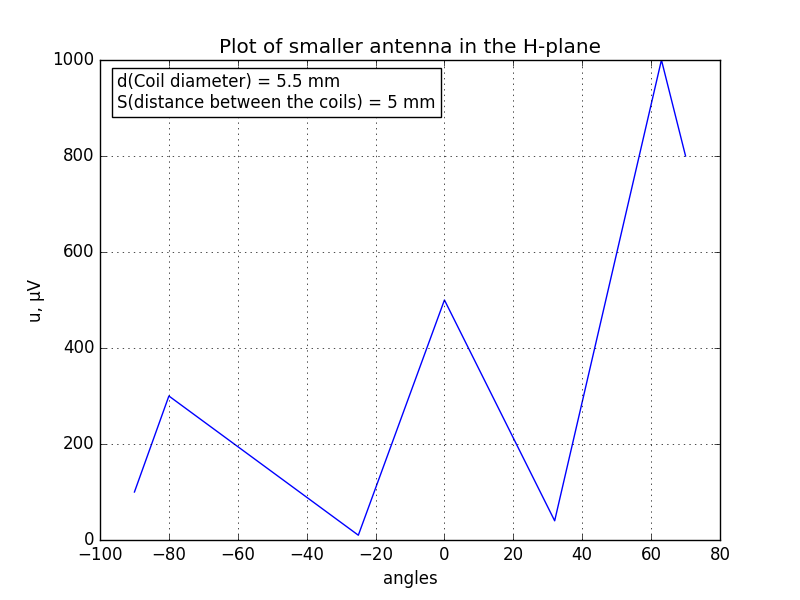
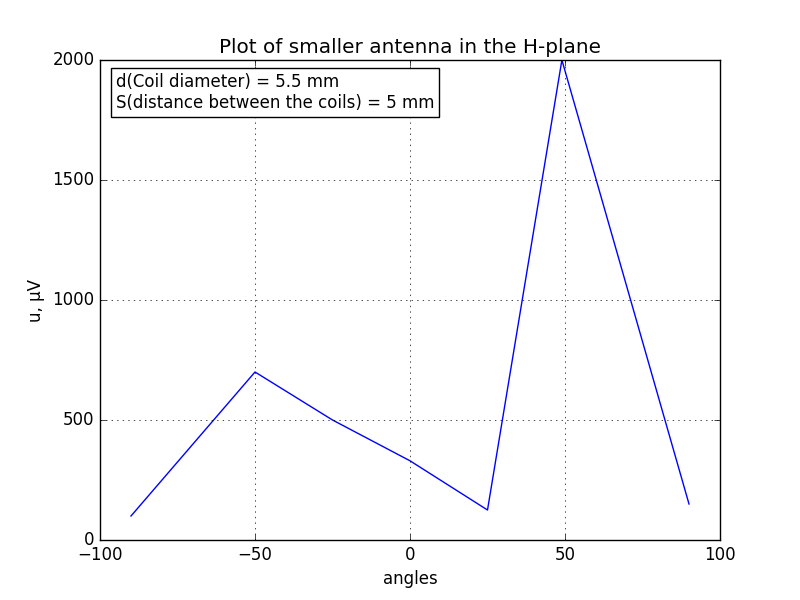
Fixed plot of smaller antenna in the H-plane

diff --git a/Helical antennas/small_ant_h.py b/Helical antennas/small_ant_h.py
@@ -6,12 +6,12 @@
 import matplotlib.pyplot as plt
 import numpy as np
 
-angles = np.array([-90, -80, -25, 0, 32, 63, 70])
-u = np.array     ([100, 300, 10, 500, 40, 1000, 800])
+angles = np.array([-90, -50, -25, 0, 25, 49, 90])
+u = np.array     ([100, 700, 500, 330, 125, 2000, 150])
 
 plt.plot(angles, u)
 plt.title("Plot of smaller antenna in the H-plane")
-plt.text(-95, 900, s="d(Coil diameter) = 5.5 mm \nS(distance between the coils) = 5 mm", bbox = {"boxstyle":"square", "facecolor":"w"})
+plt.text(-95, 1800, s="d(Coil diameter) = 5.5 mm \nS(distance between the coils) = 5 mm", bbox = {"boxstyle":"square", "facecolor":"w"})
 plt.xlabel('angles')
 plt.ylabel('u, µV')
 
